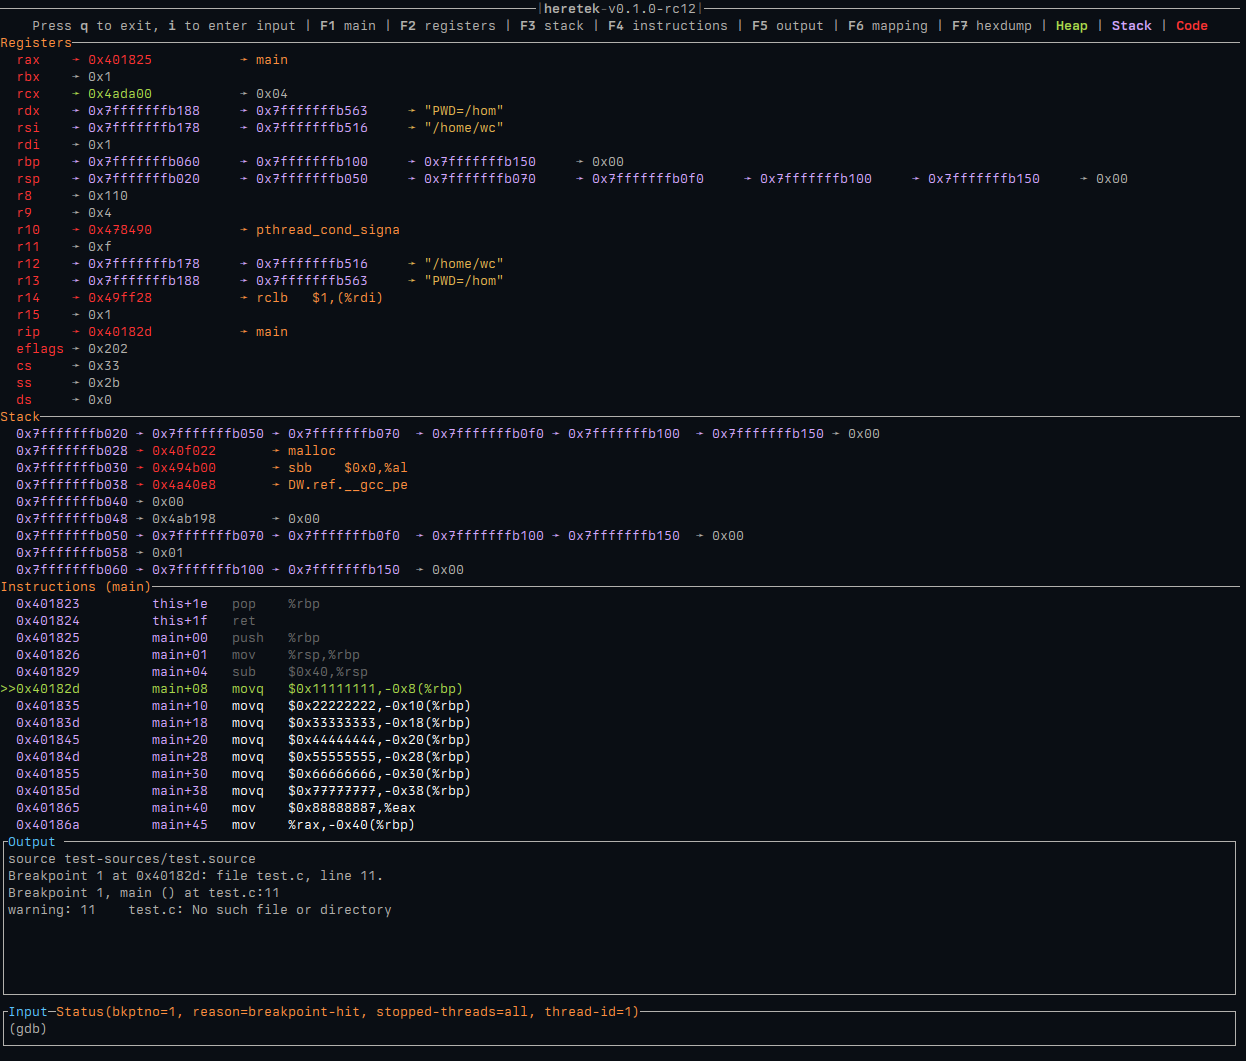
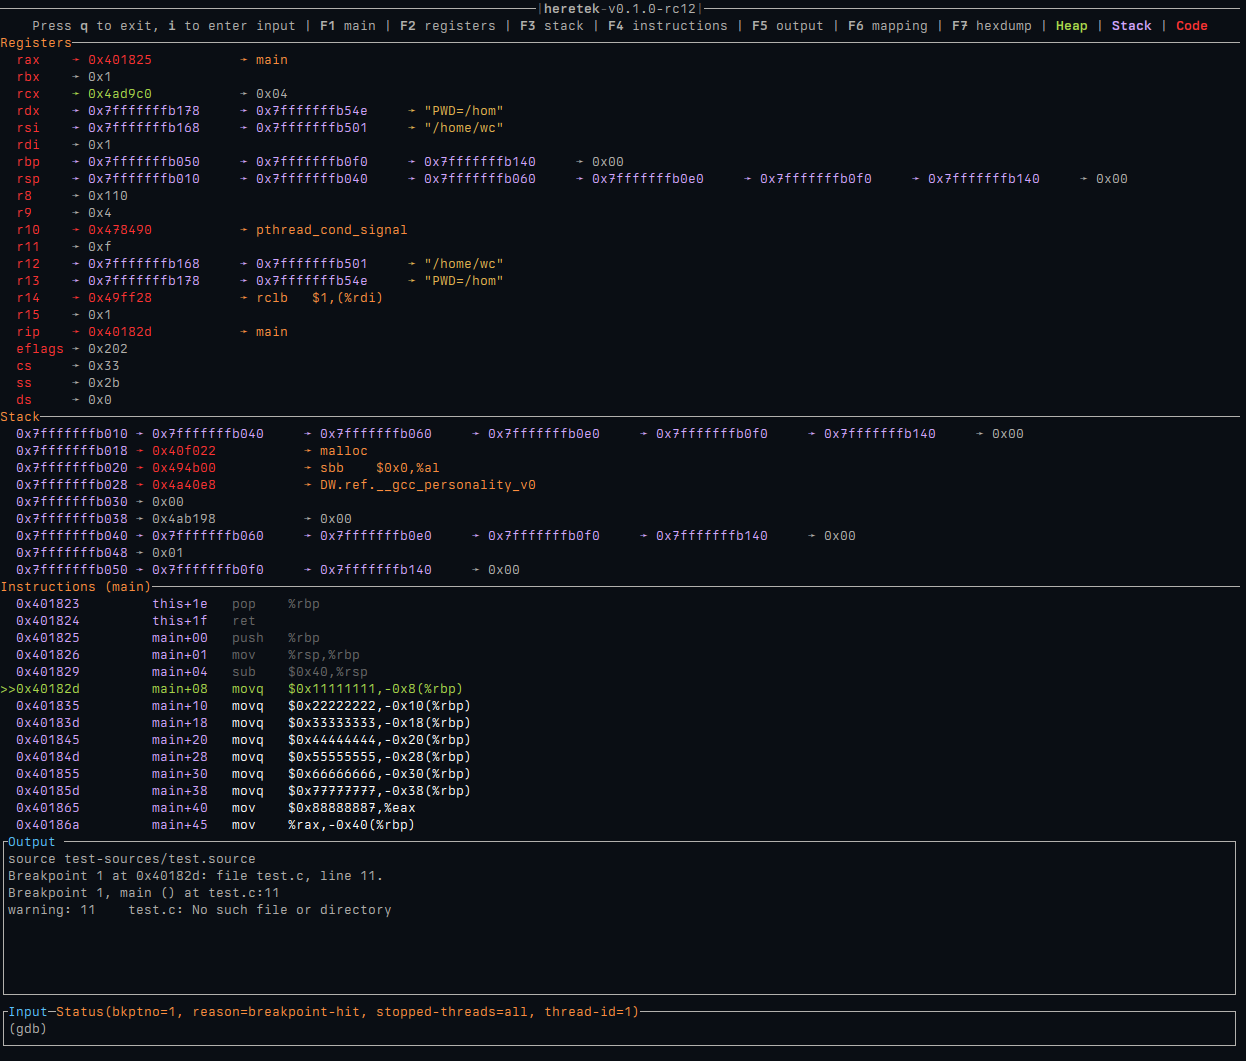
Show entire trailing information in register/stack
* Remove use of Table and replace it with Span/Text. In this way
  each row can have a diff length in every column instead of relying on
  all the other rows.

diff --git a/src/ui/registers.rs b/src/ui/registers.rs
@@ -1,12 +1,12 @@
 use std::path::PathBuf;
 use std::sync::atomic::Ordering;
 
-use super::{add_deref_to_cell, ORANGE, PURPLE, RED};
+use super::{add_deref_to_span, apply_val_color, ORANGE, PURPLE, RED};
 
-use ratatui::layout::Constraint;
 use ratatui::prelude::Stylize;
-use ratatui::widgets::{Block, Borders, Cell, Table};
-use ratatui::{layout::Rect, style::Style, widgets::Row, Frame};
+use ratatui::text::{Line, Span, Text};
+use ratatui::widgets::{Block, Borders, Paragraph};
+use ratatui::{layout::Rect, style::Style, Frame};
 
 use crate::register::RegisterStorage;
 use crate::App;
@@ -15,7 +15,7 @@ use crate::App;
 pub fn draw_registers(app: &App, f: &mut Frame, register: Rect) {
     let block = Block::default().borders(Borders::TOP).title("Registers".fg(ORANGE));
 
-    let mut rows = vec![];
+    let mut lines = vec![];
     let mut longest_register_name = 0;
     let mut longest_extra_val = 0;
 
@@ -25,8 +25,17 @@ pub fn draw_registers(app: &App, f: &mut Frame, register: Rect) {
             return;
         }
 
+        // find longest register name
+        // TODO: cache this
         let reg_changed_lock = app.register_changed.lock().unwrap();
         let filepath_lock = app.filepath.lock().unwrap();
+        for RegisterStorage { name, register: _, deref: _ } in regs.iter() {
+            if longest_register_name < name.len() {
+                longest_register_name = name.len();
+            }
+        }
+        let width: usize = if app.thirty_two_bit.load(Ordering::Relaxed) { 11 } else { 19 };
+
         let empty = PathBuf::from("");
         let binding = filepath_lock.as_ref().unwrap_or(&empty);
         let filepath = binding.to_string_lossy();
@@ -38,44 +47,48 @@ pub fn draw_registers(app: &App, f: &mut Frame, register: Rect) {
                 if let Some(reg_value) = &reg.value {
                     if let Ok(val) = u64::from_str_radix(&reg_value[2..], 16) {
                         let changed = reg_changed_lock.contains(&(i as u8));
-                        if longest_register_name < name.len() {
-                            longest_register_name = name.len();
-                        }
-                        let mut reg_name =
-                            Cell::from(format!("  {name}")).style(Style::new().fg(PURPLE));
+                        let mut reg_name = Span::from(format!(
+                            "  {name:width$}",
+                            width = longest_register_name - 2
+                        ))
+                        .style(Style::new().fg(PURPLE));
                         let (is_stack, is_heap, is_text) = app.classify_val(val, &filepath);
 
                         let mut extra_derefs = Vec::new();
-                        add_deref_to_cell(
+                        add_deref_to_span(
                             deref,
                             &mut extra_derefs,
                             app,
                             &filepath,
                             &mut longest_extra_val,
+                            width,
                         );
 
-                        let mut cell = Cell::from(format!("➛ {}", reg.value.clone().unwrap()));
-                        super::apply_val_color(&mut cell, is_stack, is_heap, is_text);
+                        let hex_string = format!("{}", reg.value.as_ref().unwrap());
+                        let hex_width = hex_string.len();
+                        let padding_width = width.saturating_sub(hex_width);
+                        let mut span = Span::from(format!(
+                            "➛ {}{:padding$}",
+                            hex_string,
+                            "",
+                            padding = padding_width
+                        ));
+                        apply_val_color(&mut span, is_stack, is_heap, is_text);
 
                         // Apply color to reg name
                         if changed {
                             reg_name = reg_name.style(Style::new().fg(RED));
                         }
-                        let mut row = vec![reg_name, cell];
-                        row.append(&mut extra_derefs);
-                        rows.push(Row::new(row));
+                        let mut line = Line::from(vec![reg_name, span]);
+                        line.spans.append(&mut extra_derefs);
+                        lines.push(line);
                     }
                 }
             }
         }
     }
 
-    let mut widths = vec![Constraint::Length(longest_register_name as u16)];
-    if app.thirty_two_bit.load(Ordering::Relaxed) {
-        widths.append(&mut vec![Constraint::Length(11); longest_extra_val + 1]);
-    } else {
-        widths.append(&mut vec![Constraint::Length(20); longest_extra_val + 1]);
-    }
-    let table = Table::new(rows, widths).block(block);
-    f.render_widget(table, register);
+    let text = Text::from(lines);
+    let paragraph = Paragraph::new(text).block(block);
+    f.render_widget(paragraph, register);
 }

diff --git a/src/ui/mod.rs b/src/ui/mod.rs
@@ -2,7 +2,7 @@ use ratatui::layout::Constraint::{Fill, Length, Min};
 use ratatui::layout::Layout;
 use ratatui::style::Color;
 use ratatui::style::Style;
-use ratatui::widgets::Cell;
+use ratatui::text::Span;
 use ratatui::Frame;
 
 use crate::deref::Deref;
@@ -108,24 +108,25 @@ pub fn ui(f: &mut Frame, app: &mut App) {
 }
 
 /// Apply color to val
-pub fn apply_val_color(cell: &mut Cell, is_stack: bool, is_heap: bool, is_text: bool) {
+pub fn apply_val_color(span: &mut Span, is_stack: bool, is_heap: bool, is_text: bool) {
     // TOOD: remove clone
     if is_stack {
-        *cell = cell.clone().style(Style::new().fg(STACK_COLOR))
+        *span = span.clone().style(Style::new().fg(STACK_COLOR))
     } else if is_heap {
-        *cell = cell.clone().style(Style::new().fg(HEAP_COLOR))
+        *span = span.clone().style(Style::new().fg(HEAP_COLOR))
     } else if is_text {
-        *cell = cell.clone().style(Style::new().fg(TEXT_COLOR))
+        *span = span.clone().style(Style::new().fg(TEXT_COLOR))
     }
 }
 
-/// Add deref value to cells
-pub fn add_deref_to_cell(
+/// Add deref value to span
+pub fn add_deref_to_span(
     deref: &Deref,
-    cells: &mut Vec<Cell>,
+    spans: &mut Vec<Span>,
     app: &App,
     filepath: &str,
     longest_cells: &mut usize,
+    width: usize,
 ) {
     for (i, v) in deref.map.iter().enumerate() {
         // check if ascii if last deref
@@ -136,27 +137,33 @@ pub fn add_deref_to_cell(
                 .all(|a| a.is_ascii_alphabetic() || a.is_ascii_graphic() || a.is_ascii_whitespace())
             {
                 if let Ok(s) = std::str::from_utf8(&bytes) {
-                    let cell = Cell::from(format!("➛ \"{}\"", s)).style(Style::new().fg(YELLOW));
-                    cells.push(cell);
+                    let cell = Span::from(format!("➛ \"{}\"", s)).style(Style::new().fg(YELLOW));
+                    spans.push(cell);
                     continue;
                 }
             }
         }
 
         // if not, it's a value
-        let mut cell = Cell::from(format!("➛ 0x{:02x}", v));
+        let hex_string = format!("0x{:02x}", v);
+        let hex_width = hex_string.len();
+        let padding_width = width.saturating_sub(hex_width);
+        let mut span =
+            Span::from(format!("➛ {}{:padding$}", hex_string, "", padding = padding_width));
         let (is_stack, is_heap, is_text) = app.classify_val(*v, filepath);
-        apply_val_color(&mut cell, is_stack, is_heap, is_text);
-        cells.push(cell);
+        apply_val_color(&mut span, is_stack, is_heap, is_text);
+        spans.push(span);
     }
     if deref.repeated_pattern {
-        cells.push(Cell::from("➛ [loop detected]").style(Style::new().fg(GRAY)));
+        spans.push(Span::from("➛ [loop detected]").style(Style::new().fg(GRAY)));
     }
     if !deref.final_assembly.is_empty() {
-        cells
-            .push(Cell::from(format!("➛ {}", deref.final_assembly)).style(Style::new().fg(ORANGE)));
+        spans.push(
+            Span::from(format!("➛ {:width$}", deref.final_assembly, width = width))
+                .style(Style::new().fg(ORANGE)),
+        );
     }
-    if cells.len() > *longest_cells {
-        *longest_cells = cells.len();
+    if spans.len() > *longest_cells {
+        *longest_cells = spans.len();
     }
 }

diff --git a/src/ui/stack.rs b/src/ui/stack.rs
@@ -1,17 +1,20 @@
 use std::sync::atomic::Ordering;
 
-use ratatui::layout::Constraint;
 use ratatui::prelude::Stylize;
-use ratatui::widgets::{Block, Borders, Cell, Table};
-use ratatui::{layout::Rect, style::Style, widgets::Row, Frame};
+use ratatui::text::{Line, Span, Text};
+use ratatui::widgets::{Block, Borders, Paragraph};
+use ratatui::{layout::Rect, style::Style, Frame};
 
-use super::{add_deref_to_cell, ORANGE, PURPLE};
+use super::{add_deref_to_span, ORANGE, PURPLE};
 
 use crate::App;
 
 pub fn draw_stack(app: &App, f: &mut Frame, stack: Rect) {
-    let mut rows = vec![];
+    let block = Block::default().borders(Borders::TOP).title("Stack".fg(ORANGE));
+    let mut lines = vec![];
     let mut longest_cells = 0;
+    let width: usize = if app.thirty_two_bit.load(Ordering::Relaxed) { 11 } else { 19 };
+
     if let Ok(stack) = app.stack.lock() {
         let mut entries: Vec<_> = stack.clone().into_iter().collect();
         entries.sort_by(|a, b| a.0.cmp(&b.0));
@@ -20,22 +23,20 @@ pub fn draw_stack(app: &App, f: &mut Frame, stack: Rect) {
             let binding = filepath_lock.as_ref().unwrap();
             let filepath = binding.to_string_lossy();
 
-            let addr = Cell::from(format!("  0x{:02x}", addr)).style(Style::new().fg(PURPLE));
-            let mut cells = vec![addr];
-            add_deref_to_cell(values, &mut cells, app, &filepath, &mut longest_cells);
-            let row = Row::new(cells);
-            rows.push(row);
+            let hex_string = format!("0x{:02x}", addr);
+            let hex_width = hex_string.len();
+            let padding_width = (width - 4).saturating_sub(hex_width);
+            let span =
+                Span::from(format!("  {}{:padding$}", hex_string, "", padding = padding_width))
+                    .style(Style::new().fg(PURPLE));
+            let mut spans = vec![span];
+            add_deref_to_span(values, &mut spans, app, &filepath, &mut longest_cells, width);
+            let line = Line::from(spans);
+            lines.push(line);
         }
     }
 
-    let mut widths = vec![Constraint::Length(16)];
-    if app.thirty_two_bit.load(Ordering::Relaxed) {
-        widths.append(&mut vec![Constraint::Length(20); longest_cells + 1]);
-    } else {
-        widths.append(&mut vec![Constraint::Length(20); longest_cells + 1]);
-    }
-    let table = Table::new(rows, widths)
-        .block(Block::default().borders(Borders::TOP).title("Stack".fg(ORANGE)));
-
-    f.render_widget(table, stack);
+    let text = Text::from(lines);
+    let paragraph = Paragraph::new(text).block(block);
+    f.render_widget(paragraph, stack);
 }
